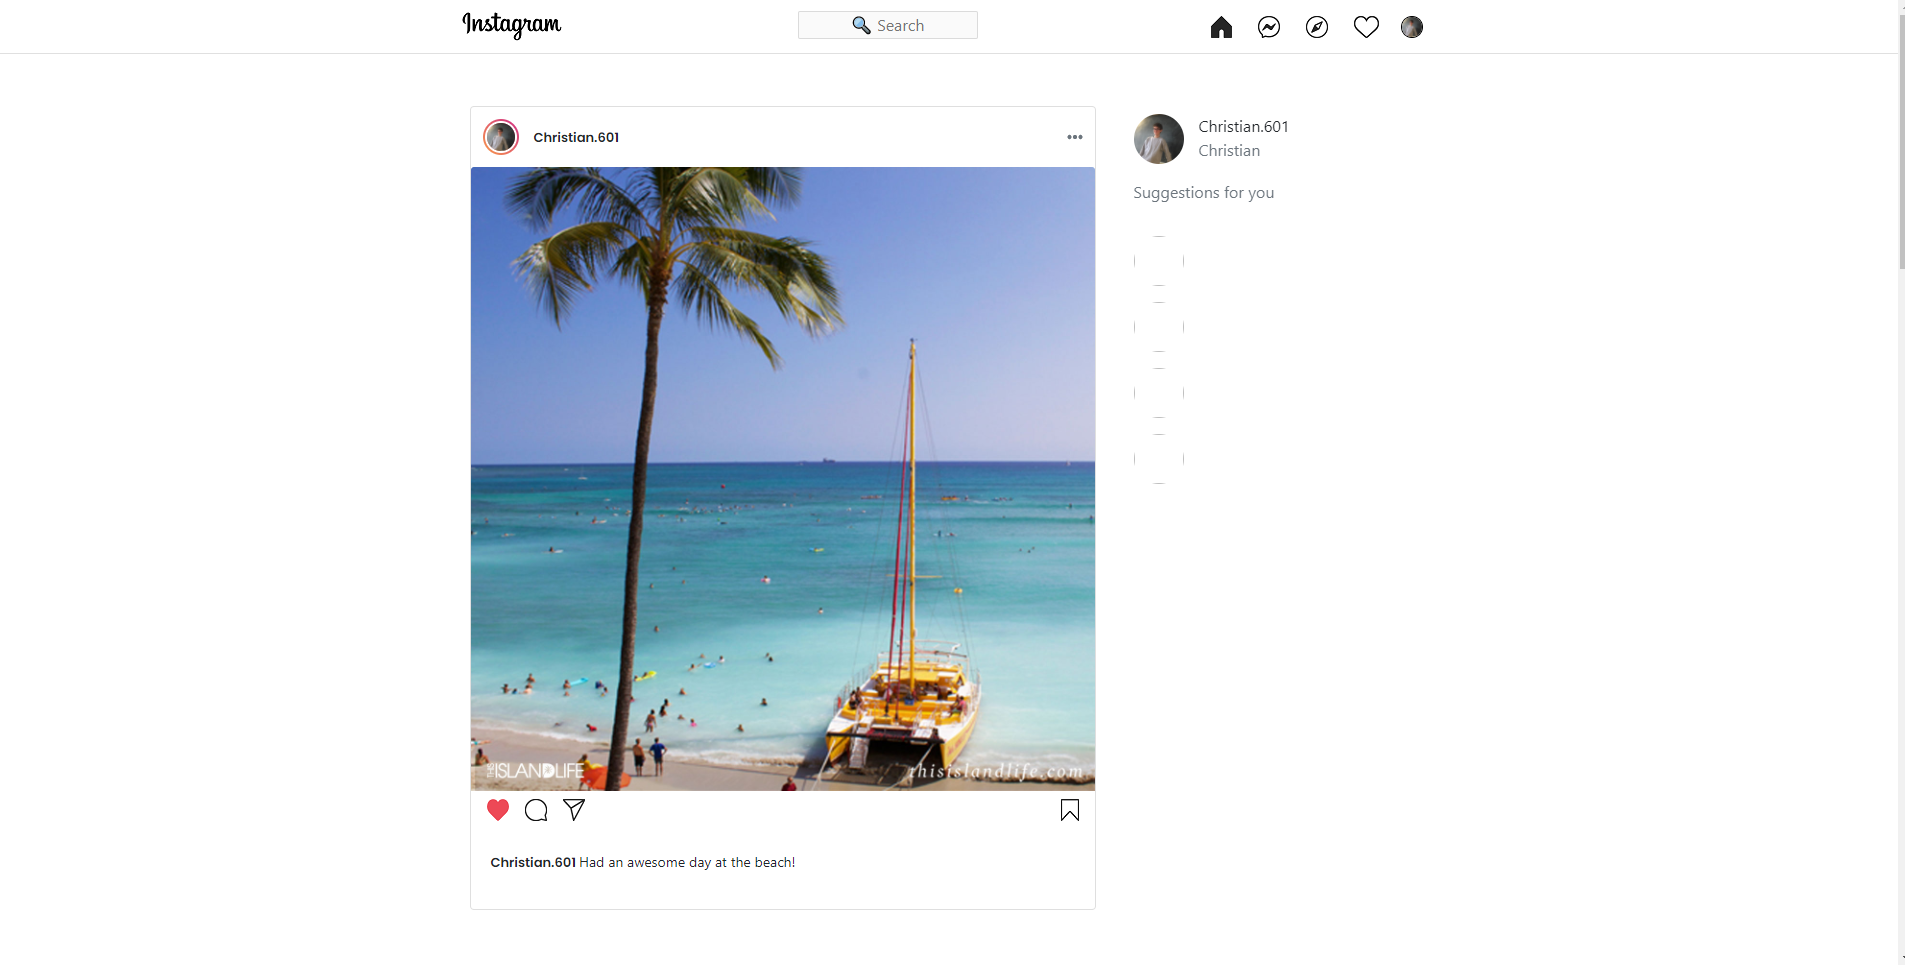
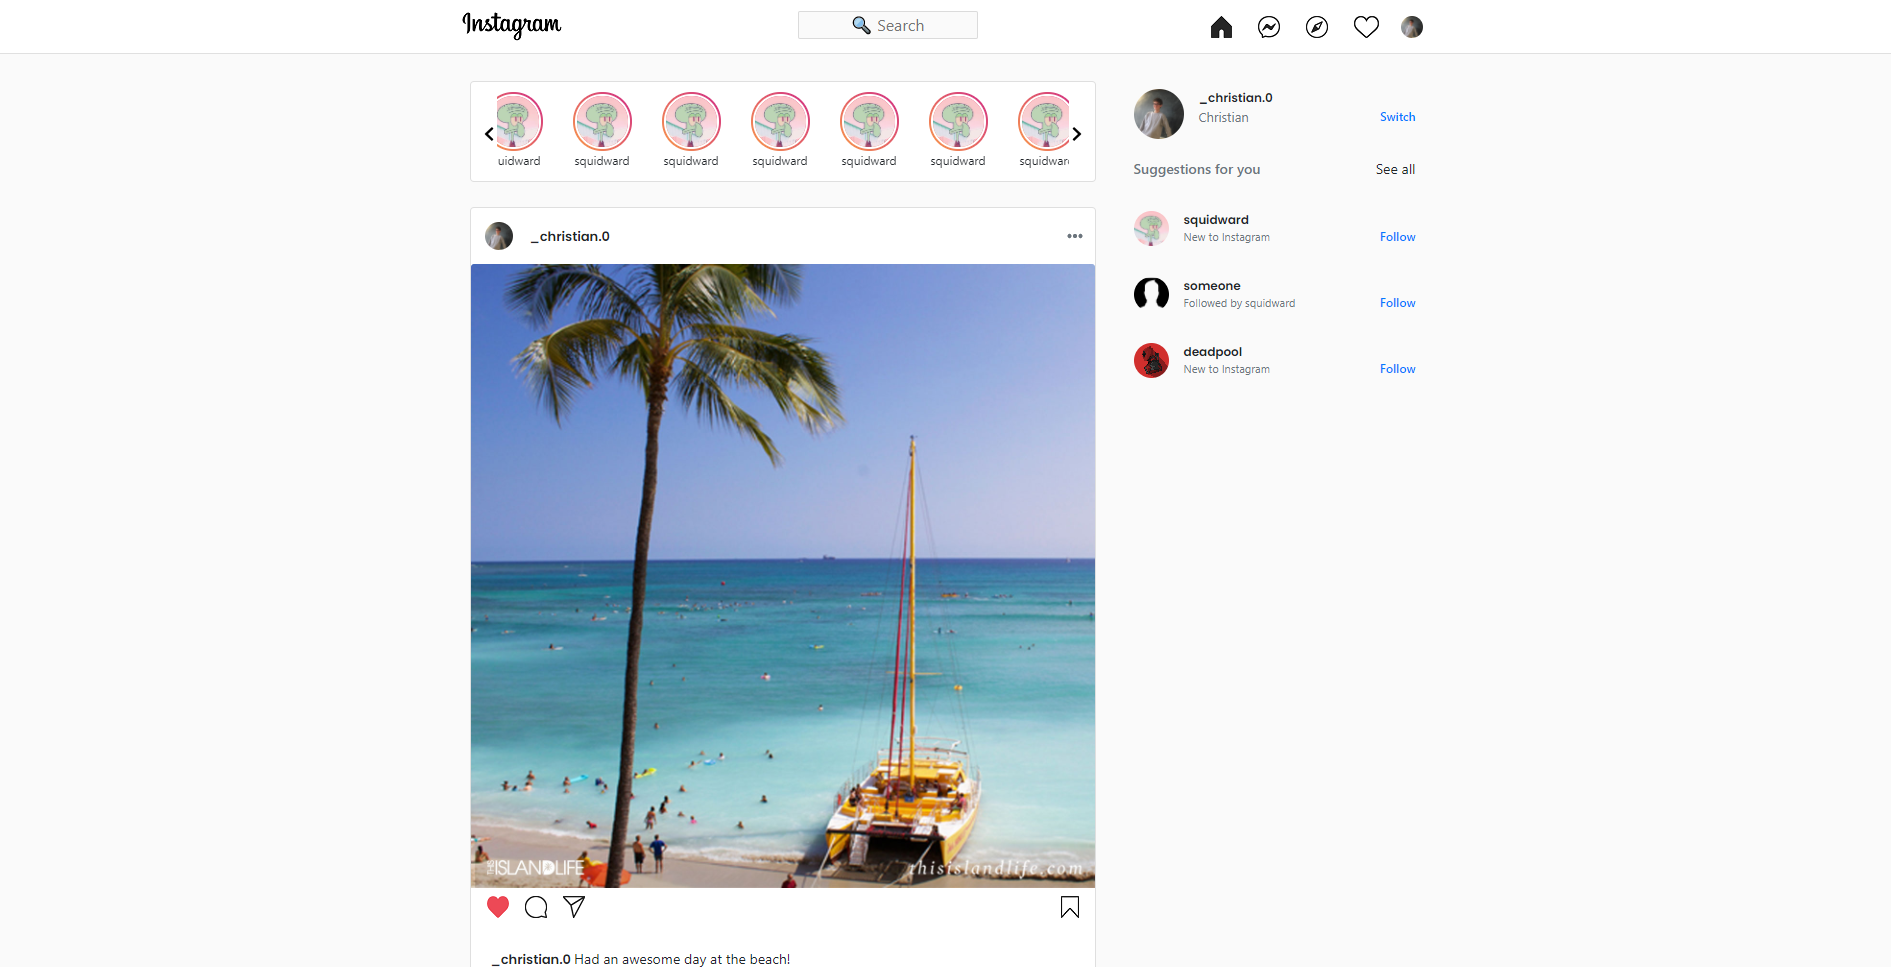
side menu complete, almost done stories

diff --git a/src/Components/side_suggestions/side_bar.js b/src/Components/side_suggestions/side_bar.js
@@ -4,22 +4,27 @@ import {Col, Container, Row} from "react-bootstrap";
 import profileImg from "../../assets/profiles/1/profile.png";
 import SideSuggestion from "./side_suggestion";
 import SideUser from "./side_user";
+import './side.css'
+import profileImg1 from '../../assets/profiles/2/profile.jpg'
+import profileImg2 from '../../assets/profiles/3/profile.png'
+import profileImg3 from '../../assets/profiles/4/profile.jpeg'
 
 
 class SideBar extends Component {
     render() {
         return (
-            <Container style={{position: 'fixed'}}>
-                <SideUser img={profileImg} username="Christian.601" name="Christian"/>
-                <Row className="justify-content-between">
-                    <p className="text-muted">Suggestions for you</p>
-                    <p>See all</p>
-                </Row>
-                <SideSuggestion/>
-                <SideSuggestion/>
-                <SideSuggestion/>
-                <SideSuggestion/>
-            </Container>
+            <div id='sidebar'>
+                <Container>
+                    <SideUser img={profileImg} username="_christian.0" name="Christian"/>
+                    <Row className="justify-content-between">
+                        <p className="text-muted suggestions">Suggestions for you</p>
+                        <p className="see-all-item">See all</p>
+                    </Row>
+                    <SideSuggestion img={profileImg1} username="squidward" whySuggested="New to Instagram"/>
+                    <SideSuggestion img={profileImg2} username="someone" whySuggested="Followed by squidward"/>
+                    <SideSuggestion img={profileImg3} username="deadpool" whySuggested="New to Instagram"/>
+                </Container>
+            </div>
 
         )
     }

diff --git a/src/Components/stories/stories.js b/src/Components/stories/stories.js
@@ -1,0 +1,35 @@
+import {Component} from "react";
+import {Card} from "react-bootstrap";
+import {FaChevronRight, FaChevronLeft} from "react-icons/all";
+
+import './stories.css'
+import ScrollMenu from "react-horizontal-scrolling-menu";
+import Story from "./story";
+import profileImg1 from '../../assets/profiles/2/profile.jpg'
+
+class Stories extends Component {
+
+    render() {
+        return (
+            <Card id="stories">
+                <ScrollMenu arrowLeft={<FaChevronLeft className="arrow"/>}
+                            arrowRight={<FaChevronRight className="arrow"/>}
+                            data={
+                                [
+                                    <Story img={profileImg1} user="squidward"/>,
+                                    <Story img={profileImg1} user="squidward"/>,
+                                    <Story img={profileImg1} user="squidward"/>,
+                                    <Story img={profileImg1} user="squidward"/>,
+                                    <Story img={profileImg1} user="squidward"/>,
+                                    <Story img={profileImg1} user="squidward"/>,
+                                    <Story img={profileImg1} user="squidward"/>,
+                                    <Story img={profileImg1} user="squidward"/>
+                                ]
+                            }
+                />
+            </Card>
+        );
+    }
+}
+
+export default Stories

diff --git a/src/Components/user_post/posts.js b/src/Components/user_post/posts.js
@@ -13,10 +13,10 @@ class Posts extends Component {
     render() {
         return (
             <div>
-                <UserPost profileImg={profile} username="Christian.601" img={post} caption="Had an awesome day at the beach!" liked={true}/>
-                <UserPost profileImg={profile} username="Christian.601" img={post} caption="Had an awesome day at the beach!" liked={false}/>
-                <UserPost profileImg={profile} username="Christian.601" img={post} caption="Had an awesome day at the beach!" liked={true}/>
-                <UserPost profileImg={profile} username="Christian.601" img={post} caption="Had an awesome day at the beach!" liked={false}/>
+                <UserPost profileImg={profile} username="_christian.0" story={false} img={post} caption="Had an awesome day at the beach!" liked={true}/>
+                <UserPost profileImg={profile} username="_christian.0" story={true} img={post} caption="Had an awesome day at the beach!" liked={false}/>
+                <UserPost profileImg={profile} username="_christian.0" story={false} img={post} caption="Had an awesome day at the beach!" liked={true}/>
+                <UserPost profileImg={profile} username="_christian.0" story={true} img={post} caption="Had an awesome day at the beach!" liked={false}/>
             </div>
         )
     }

diff --git a/src/Components/side_suggestions/side_suggestion.js b/src/Components/side_suggestions/side_suggestion.js
@@ -1,5 +1,5 @@
 import {Component} from "react";
-import {Card, Col, Container, Image, Row} from "react-bootstrap";
+import {Col, Image, Row} from "react-bootstrap";
 
 import './side.css'
 
@@ -11,10 +11,10 @@ class SideSuggestion extends Component {
     render() {
         return (
             <Row>
-                <Image src={this.props.img} className="side-profile-img" roundedCircle/>
+                <Image src={this.props.img} className="side-profile-img-suggested" roundedCircle/>
                 <Col>
-                    <p className="p-item">{this.props.username}</p>
-                    <p className="text-muted p-item">{this.props.whySuggested}</p>
+                    <p className="username-side">{this.props.username}</p>
+                    <p className="text-muted sub-title-suggested">{this.props.whySuggested}</p>
                 </Col>
                 <a className="link-item" href="https://www.google.com">Follow</a>
             </Row>

diff --git a/src/App.js b/src/App.js
@@ -4,11 +4,12 @@ import {Component} from "react";
 import Header from "./Components/header/header";
 import Posts from "./Components/user_post/posts";
 import SideBar from "./Components/side_suggestions/side_bar";
+import Stories from './Components/stories/stories'
 import './Components/global.css'
 import './App.css';
 
 
-class App extends Component{
+class App extends Component {
 
     componentDidMount() {
         document.title = "Instagram Clone"
@@ -19,8 +20,10 @@ class App extends Component{
             <div>
                 <Header/>
                 <Container>
+
                     <Row id="posts">
                         <Col lg={8}>
+                            <Stories/>
                             <Posts/>
                         </Col>
                         <Col>

diff --git a/src/Components/side_suggestions/side_user.js b/src/Components/side_suggestions/side_user.js
@@ -11,10 +11,10 @@ class SideUser extends Component {
     render() {
         return (
             <Row>
-                <Image src={this.props.img} className="side-profile-img" roundedCircle/>
+                <Image src={this.props.img} className="side-profile-img-user" roundedCircle/>
                 <Col>
-                    <p className="p-item">{this.props.username}</p>
-                    <p className="text-muted p-item">{this.props.name}</p>
+                    <p className="username-side">{this.props.username}</p>
+                    <p className="text-muted sub-title-user">{this.props.name}</p>
                 </Col>
                 <a className="link-item" href="https://www.google.com">Switch</a>
             </Row>

diff --git a/src/Components/side_suggestions/side.css b/src/Components/side_suggestions/side.css
@@ -2,18 +2,45 @@
     padding: 8px;
 }
 
-.side-profile-img{
+
+.side-profile-img-suggested{
+    height: 35px;
+    width: 35px;
+    object-fit: cover;
+}
+.side-profile-img-user{
     height: 50px;
     width: 50px;
-    margin: auto;
     object-fit: cover;
 }
 
 .link-item{
     text-decoration: none !important;
     margin: auto;
+    font-size: 12px;
+    font-weight: 500;
+}
+.see-all-item{
+    font-size: 14px;
 }
 
-.p-item{
+.suggestions{
+    font-weight: 600;
+    font-size: 14px
+}
+
+.sub-title-suggested{
+    font-size: 11px;
+}
+.sub-title-user{
+    font-size: 13px;
+}
+
+.username-side{
+    font-family: username, sans-serif;
+    font-size: 12px;
     margin: auto;
+}
+
+#sidebar{
 }

diff --git a/src/Components/stories/story.js b/src/Components/stories/story.js
@@ -1,0 +1,25 @@
+import {Component} from "react";
+
+import './stories.css'
+import {Col, Image} from "react-bootstrap";
+
+class Story extends Component {
+
+    constructor(props) {
+        super(props);
+    }
+
+    render() {
+        return (
+            <Col>
+                <div className="border-gradient">
+                    <Image className="story" src={this.props.img} alt="img"/>
+                </div>
+                <p className="story-text">{this.props.user}</p>
+            </Col>
+
+        )
+    }
+}
+
+export default Story

diff --git a/src/Components/user_post/user_post.js b/src/Components/user_post/user_post.js
@@ -19,7 +19,7 @@ class UserPost extends Component {
             <Card className="post">
                 <Container>
                     <Row className="d-flex header">
-                        <div className="border-gradient">
+                        <div className={this.props.story ? "border-gradient" : null}>
                             <Image src={this.props.profileImg} className="post-profile-img"/>
                         </div>
 

diff --git a/src/Components/user_post/user_post.css b/src/Components/user_post/user_post.css
@@ -1,12 +1,6 @@
-@font-face {
-    font-family: username;
-    src: url('../../assets/fonts/Poppins-SemiBold.ttf');
-}
-
 .post{
     margin-bottom: 60px;
 }
-
 
 .username{
     font-size: 13px;
@@ -23,11 +17,6 @@
     object-fit: cover;
 }
 
-.border-gradient {
-    background-image: -webkit-linear-gradient(right top, #D02C86, #F99B4A);
-    border-radius: 400px;
-    padding: 2px;
-}
 
 .settings{
     color: #6c757d;

diff --git a/src/Components/stories/stories.css b/src/Components/stories/stories.css
@@ -1,0 +1,24 @@
+.story{
+    border-radius: 400px;
+    height: 55px;
+    width: 55px;
+    border: 2px solid white;
+    object-fit: cover;
+}
+
+
+.story-text{
+    font-size: 12px;
+    margin: auto;
+    text-align: center;
+}
+
+#stories{
+    margin-bottom: 25px;
+    padding: 10px;
+}
+
+.arrow{
+    size: 25px;
+    color: black;
+}

diff --git a/src/Components/global.css b/src/Components/global.css
@@ -1,3 +1,14 @@
 .container {
     max-width: 1000px !important;
 }
+
+@font-face {
+    font-family: username;
+    src: url('../assets/fonts/Poppins-SemiBold.ttf');
+}
+
+.border-gradient {
+    background-image: -webkit-linear-gradient(right top, #D02C86, #F99B4A);
+    border-radius: 400px;
+    padding: 2px;
+}
